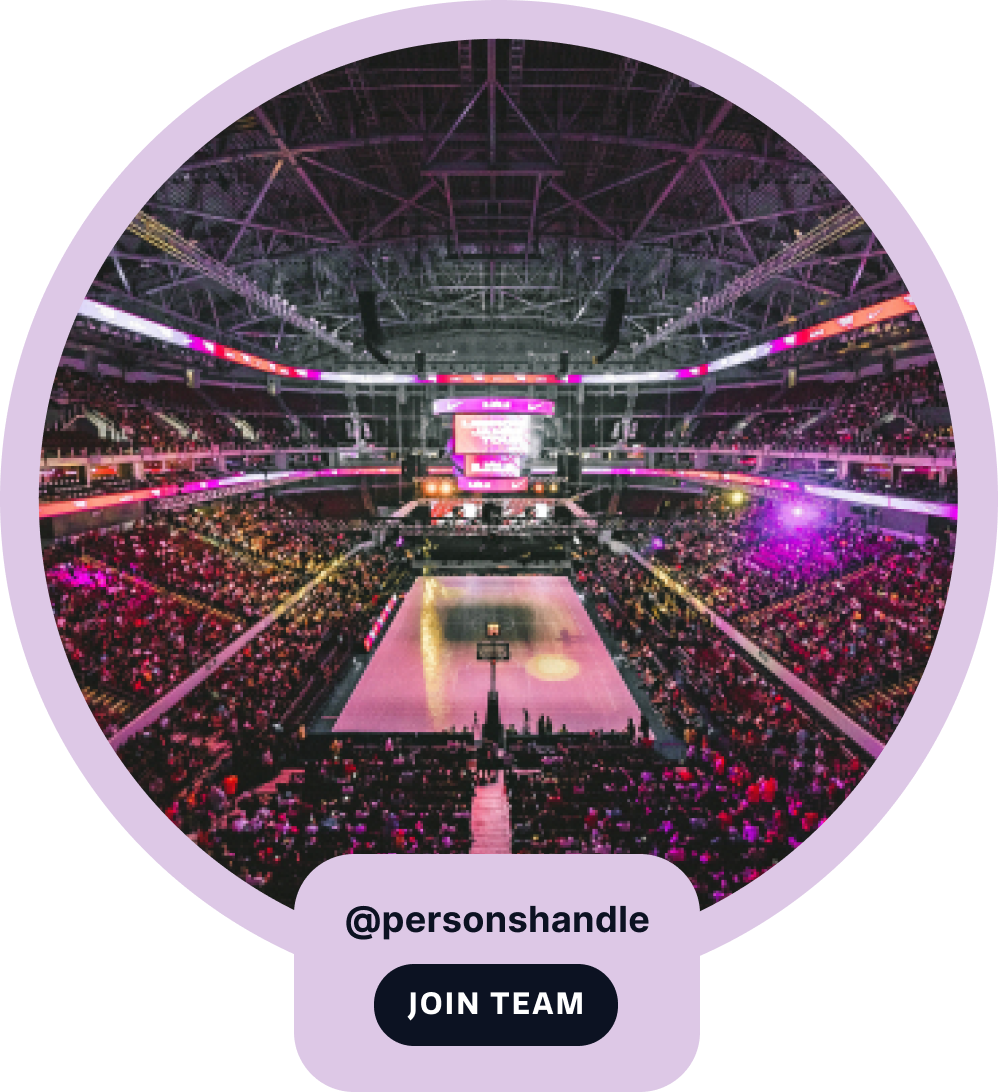
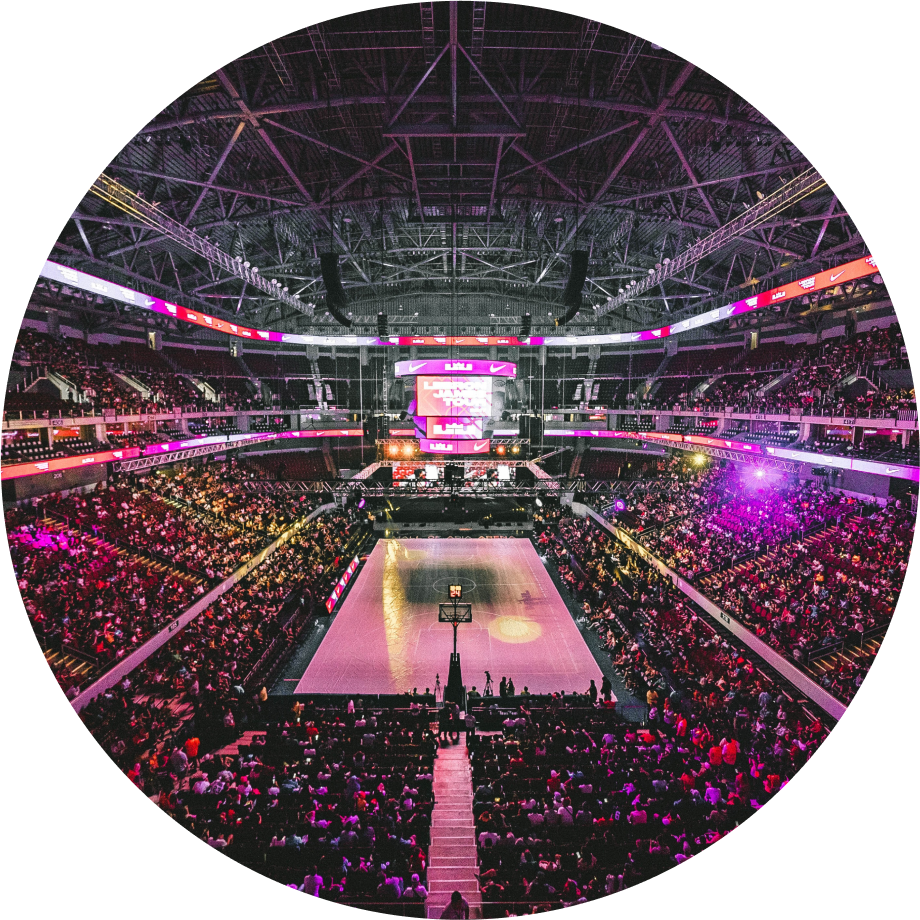
Adds profiles section

diff --git a/src/components/blocks/profiles.js b/src/components/blocks/profiles.js
@@ -1,6 +1,8 @@
 import React from 'react'
 import { BackgroundImage } from '../BackgroundImage'
-import { Heading, Body } from '../TextSection'
+import { Body } from '../TextSection'
+import { FeatureContent } from './feature'
+import { Button } from '../Button'
 
 const Profiles = ({ block }) => (
   <section
@@ -8,20 +10,56 @@ const Profiles = ({ block }) => (
       'dark-blue'} text-${block.textColor || 'white'}`}
   >
     <div
-      className="container flex flex-col mx-auto relative z-10 mt-20 pb-20"
+      className="container flex flex-col mx-auto relative z-10"
       style={{ minHeight: block.height || '100vh' }}
     >
-      <div className="flex flex-1 mx-4 mt-4 items-center flex-col md:flex-row">
-        <Heading className="mb-2">{block.col1.title}</Heading>
-        <Body>{block.col1.content}</Body>
-        {block.col1.image && (
-          <img
-            alt={block.col1.title}
-            srcSet={block.col1.image.childImageSharp.fluid.srcSet}
-            className="my-4"
-            width={100}
-          />
-        )}
+      <div style={{ maxHeight: 640 }}>
+        <FeatureContent
+          maxWidth={540}
+          block={block}
+          imageChild={
+            <div className="relative flex items-end justify-center">
+              <img
+                className="small-image-mobile rounded-full border-light-purple"
+                alt={block.title}
+                srcSet={block.image.childImageSharp.fluid.srcSet}
+                style={{
+                  width: block.imageWidth,
+                  borderWidth: 20,
+                }}
+              />
+              <div
+                className="absolute py-6 px-8 bg-light-purple text-center rounded-xl"
+                style={{ bottom: -40 }}
+              >
+                <Body>{block.col1.title}</Body>
+                <Button
+                  className="bg-dark-blue text-white mt-2"
+                  button={block.button}
+                />
+              </div>
+            </div>
+          }
+        />
+      </div>
+      <div className="flex flex-col items-center mt-10">
+        <div className="flex">
+          <Profile col={block.col1} />
+          <Profile col={block.col2} />
+          <Profile col={block.col3} />
+          <Profile col={block.col4} />
+        </div>
+
+        <Button
+          className="bg-blue text-white"
+          style={{
+            padding: '35px 100px',
+            borderRadius: 60,
+            marginTop: 100,
+            marginBottom: 380,
+          }}
+          button={block.button2}
+        />
       </div>
     </div>
 
@@ -30,3 +68,24 @@ const Profiles = ({ block }) => (
 )
 
 export default Profiles
+
+function Profile({ col }) {
+  return (
+    <div
+      className="flex flex-1 mx-4 mt-4 items-center flex-col md:flex-row"
+      style={{ minWidth: 300 }}
+    >
+      <img
+        alt={col.title}
+        srcSet={col.image.childImageSharp.fluid.srcSet}
+        className="my-4 border-light-purple rounded-full mr-4"
+        width={170}
+        style={{ borderWidth: 10 }}
+      />
+      <div>
+        <Body className="font-bold mb-1">{col.title}</Body>
+        <Body>{col.content}</Body>
+      </div>
+    </div>
+  )
+}

diff --git a/src/components/blocks/feature.js b/src/components/blocks/feature.js
@@ -12,38 +12,7 @@ const Feature = ({ block }) => (
       className="container flex mx-auto relative py-10 z-10"
       style={{ minHeight: block.height || '100vh' }}
     >
-      <div
-        className={`flex flex-1 justify-between flex-col ${
-          block.orientation === 'reverse'
-            ? 'md:flex-row-reverse'
-            : 'md:flex-row'
-        }`}
-      >
-        <div className="flex flex-1 justify-center items-center my-8">
-          {block.image && (
-            <img
-              className="small-image-mobile"
-              alt={block.title}
-              srcSet={block.image.childImageSharp.fluid.srcSet}
-              style={{ width: block.imageWidth }}
-            />
-          )}
-        </div>
-
-        <div className={`flex flex-1 justify-center items-center`}>
-          <div
-            className={`flex flex-col flex-1 text-white justify-center text-center items-center md:text-left md:items-start text-${block.textColor ||
-              'white'}`}
-            style={{
-              maxWidth: 400,
-              position: block.top ? 'absolute' : 'static',
-              top: block.top,
-            }}
-          >
-            <TextSection {...block} />
-          </div>
-        </div>
-      </div>
+      <FeatureContent block={block} />
     </div>
 
     <BackgroundImage {...block} />
@@ -51,3 +20,40 @@ const Feature = ({ block }) => (
 )
 
 export default Feature
+
+export function FeatureContent({ block, imageChild, maxWidth = 400 }) {
+  return (
+    <div
+      className={`flex flex-1 justify-between flex-col ${
+        block.orientation === 'reverse' ? 'md:flex-row-reverse' : 'md:flex-row'
+      }`}
+    >
+      <div className="flex flex-1 justify-center items-center my-8">
+        {imageChild
+          ? imageChild
+          : block.image && (
+              <img
+                className="small-image-mobile"
+                alt={block.title}
+                srcSet={block.image.childImageSharp.fluid.srcSet}
+                style={{ width: block.imageWidth }}
+              />
+            )}
+      </div>
+
+      <div className={`flex flex-1 justify-center items-center`}>
+        <div
+          className={`flex flex-col flex-1 text-white justify-center text-center items-center md:text-left md:items-start text-${block.textColor ||
+            'white'}`}
+          style={{
+            maxWidth: maxWidth,
+            position: block.top ? 'absolute' : 'static',
+            top: block.top,
+          }}
+        >
+          <TextSection {...block} />
+        </div>
+      </div>
+    </div>
+  )
+}

diff --git a/src/templates/blocks.js b/src/templates/blocks.js
@@ -97,6 +97,10 @@ export const pageQuery = graphql`
             url
             text
           }
+          button2 {
+            url
+            text
+          }
           col1 {
             image {
               childImageSharp {
@@ -120,6 +124,17 @@ export const pageQuery = graphql`
             content
           }
           col3 {
+            image {
+              childImageSharp {
+                fluid(maxWidth: 800) {
+                  srcSet
+                }
+              }
+            }
+            title
+            content
+          }
+          col4 {
             image {
               childImageSharp {
                 fluid(maxWidth: 800) {

diff --git a/src/components/Button.js b/src/components/Button.js
@@ -1,10 +1,17 @@
 import React from 'react'
-export const Button = ({ button, background, textColor, className = '' }) =>
+export const Button = ({
+  button,
+  background,
+  textColor,
+  style,
+  className = '',
+}) =>
   button ? (
     <a
       target="_blank"
       rel="noopener noreferrer"
       href={button.url}
+      style={style}
       className={`button inline-flex bg-${textColor ||
         'white'} text-${background} ${className}`}
     >

diff --git a/src/components/blocks/3col.js b/src/components/blocks/3col.js
@@ -20,7 +20,7 @@ const ThreeCol = ({ block }) => (
 export default ThreeCol
 
 function Column({ col }) {
-  return (
+  return col ? (
     <div className="text-center flex-1 mx-4 my-8" style={{ maxWidth: 400 }}>
       {col.image && (
         <img
@@ -33,5 +33,7 @@ function Column({ col }) {
       <Heading>{col.title}</Heading>
       <Body>{col.content}</Body>
     </div>
+  ) : (
+    false
   )
 }

diff --git a/src/components/blocks/cta.js b/src/components/blocks/cta.js
@@ -2,6 +2,8 @@ import React from 'react'
 import { TextSection } from '../TextSection'
 import { BackgroundImage } from '../BackgroundImage'
 
+// TODO: needs to be able to disable option image below heading and below button
+
 const CTA = ({ block }) => (
   <section className={`background-image-container bg-${block.background}`}>
     <div

diff --git a/tailwind.config.js b/tailwind.config.js
@@ -17,6 +17,7 @@ module.exports = {
         'dark-blue': '#0C1222',
         blue: '#252D6F',
         'light-blue': '#dfe2fc',
+        'light-purple': '#dec9e6',
         'light-pink': '#F1E2F4',
         pink: '#ee2a7b',
       },

diff --git a/src/css/main.css b/src/css/main.css
@@ -132,3 +132,7 @@ input {
     width: 250px !important;
   }
 }
+
+.rounded-xl {
+  border-radius: 30px;
+}

diff --git a/src/pages/team.md b/src/pages/team.md
@@ -24,24 +24,37 @@ blocks:
     button:
       url: https://google.ca
       text: Learn more
-    background_image: '/src/images/river.png'
+    button2:
+      url: https://google.ca
+      text: View All Questers
+    background: white
+    textColor: dark-blue
+    variant: bottom
+    height: 100vh
+    imageWidth: 500
+    background_image: '/src/images/fade-ruins.png'
     col1:
-      title: Research
-      image: '/src/images/dna.png'
-      content: Lorem ipsum dolor sit amet, consectetur adipiscing elit. Fusce at vehicula lectus, quis ullamcorper augue.
+      title: '@handle'
+      image: '/src/images/avatar.png'
+      content: 12 streams
     col2:
-      title: Doctors
-      image: '/src/images/heart.png'
-      content: Lorem ipsum dolor sit amet, consectetur adipiscing elit. Fusce at vehicula lectus, quis ullamcorper augue.
+      title: '@handle'
+      image: '/src/images/avatar.png'
+      content: 12 streams
     col3:
-      title: The Future
-      image: '/src/images/ball.png'
-      content: Lorem ipsum dolor sit amet, consectetur adipiscing elit. Fusce at vehicula lectus, quis ullamcorper augue.
+      title: '@handle'
+      image: '/src/images/avatar.png'
+      content: 12 streams
+    col4:
+      title: '@handle'
+      image: '/src/images/avatar.png'
+      content: 12 streams
   - template: block__feature
     component: feature
     image: '/src/images/joystick.png'
     background: white
     imageWidth: 280
+    height: 50vh
     textColor: dark-blue
     orientation: reverse
     title: DIY Streamers
@@ -60,7 +73,7 @@ blocks:
     component: cta
     background: light-blue
     background_image: '/src/images/river.png'
-    height: 110vh
+    height: 130vh
     top: 50
     variant: bottom
     textColor: dark-blue
